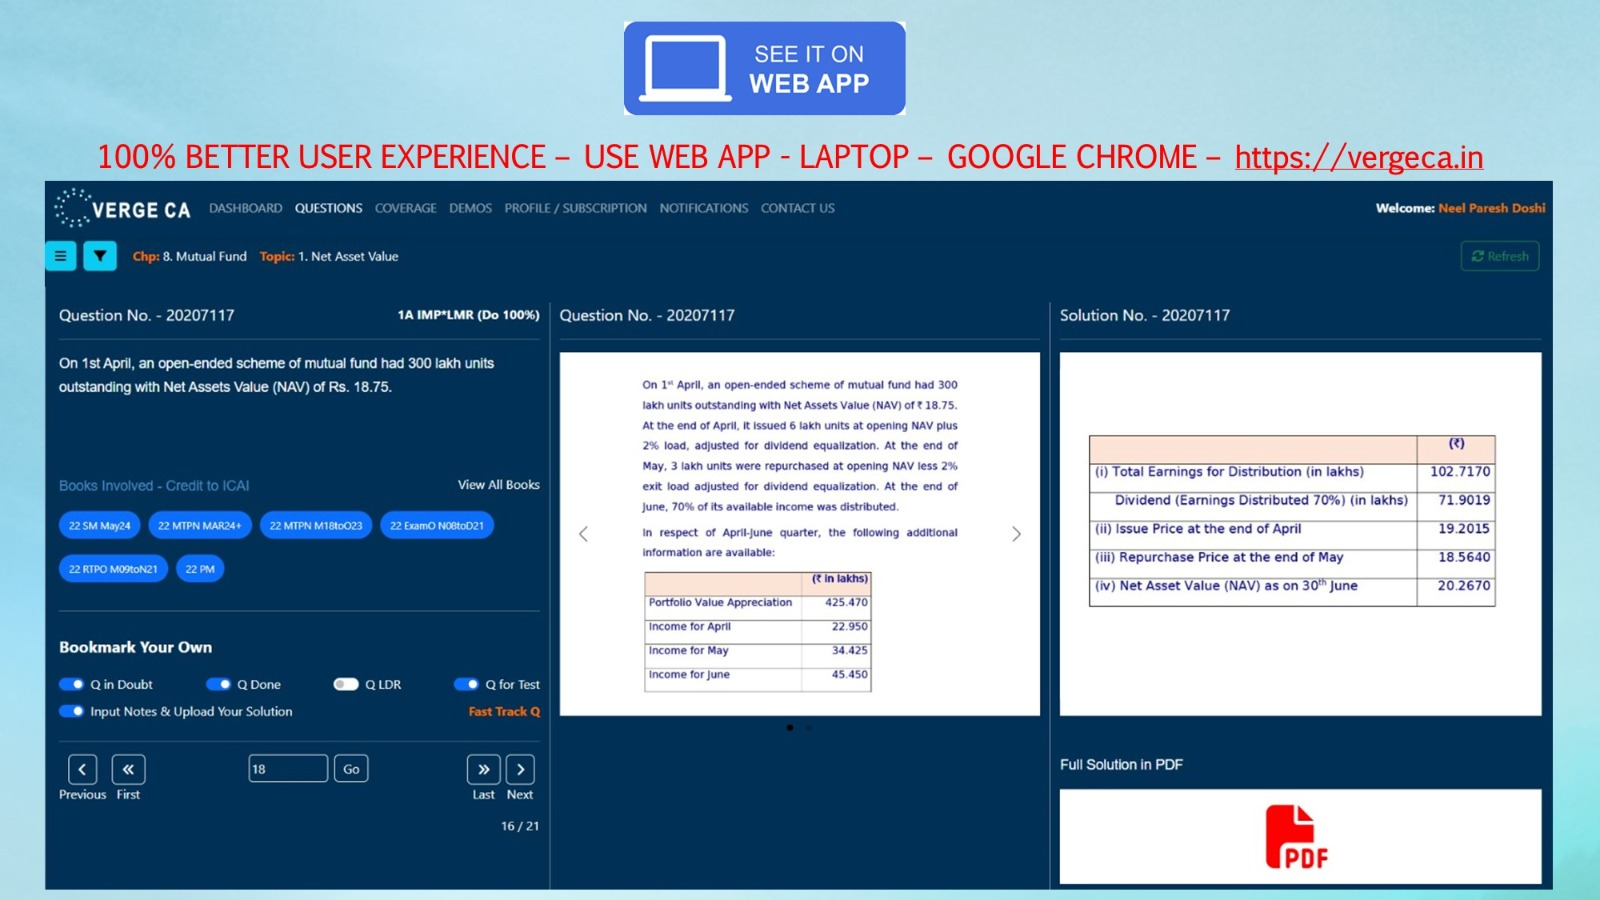
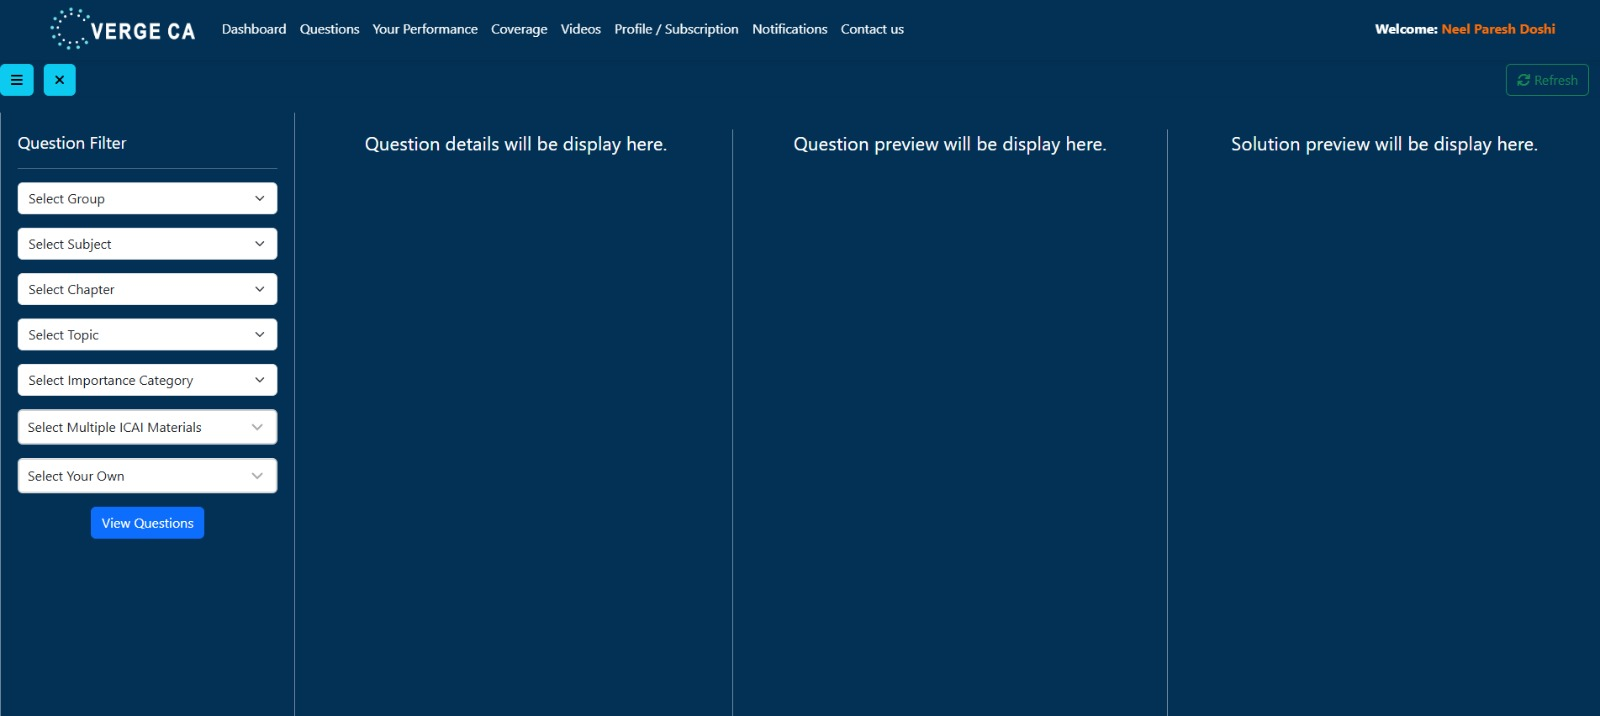
updating pricing

diff --git a/components/sections/pricing.tsx b/components/sections/pricing.tsx
@@ -5,7 +5,7 @@ import Link from "next/link";
 // importing shadcn components
 import { Button } from "@/components/ui/button";
 import { Card } from "@/components/ui/card";
-import { pricing } from "@/lib/data";
+import { pricingCAFinal, pricingCAInter } from "@/lib/data";
 
 // importing images
 import pricingImg from "@/public/images/pricing.png";
@@ -75,40 +75,67 @@ export function Pricing() {
         <>
             <section id={"pricing"} className={"px-[5vw] md:px-[10vw] py-20 md:py-28 lg:py-32"}>
                 <div className="container px-4 md:px-6">
-                    <div className="flex flex-col items-center justify-center space-y-4 text-center">
-                        <div className="space-y-2">
+                    <div className="flex flex-col items-center justify-center space-y-6 text-center">
+                        <div className="space-y-3">
                             <h1 className="heading">
                                 Subscription Plans
                             </h1>
-                            {/* <p className="max-w-[900px] text-muted-foreground md:text-xl/relaxed lg:text-base/relaxed xl:text-xl/relaxed">
-                                Choose the plan that fits your needs.
-                            </p> */}
-                            <p className="max-w-[900px] text-muted-foreground md:text-xl/relaxed lg:text-base/relaxed xl:text-xl/relaxed">
-                                Download the App and Register for free.
-                                <br />
-                                Get 2 days of free access to any 1 subject.
-                                <br />
-                                Extend further for 7 days by providing Institute Registration Image on Whatsapp.
-                                <br />
-                                <br />
-                                <h1 className="text-2xl font-bold mb-5 text-foreground">
-                                    Further choose the plan that fits your needs
-                                </h1>
-                            </p>
+                            <div className="max-w-[900px] text-muted-foreground md:text-xl/relaxed lg:text-base/relaxed xl:text-xl/relaxed">
+                                <p>
+                                    Download the App and Register for free.
+                                    <br />
+                                    Get 2 days of free access to any 1 subject.
+                                    <br />
+                                    Extend further for 7 days by providing Institute Registration Image on Whatsapp.
+                                </p>
+                            </div>
+                            <h2 className="text-2xl font-bold pt-3 text-foreground">
+                                Further choose the plan that fits your needs
+                            </h2>
                         </div>
 
-                        <div className="w-full md:w-[90vw] lg:w-[70vw] grid grid-cols-1 sm:grid-cols-2 lg:grid-cols-4 gap-5">
-                            {pricing.map((pricingCard) => (
-                                <PricingCard
-                                    key={pricingCard.name}
-                                    name={pricingCard.name}
-                                    cost={pricingCard.cost}
-                                    costDivision={pricingCard.costDivision}
-                                    duration={pricingCard.duration}
-                                    userCount={pricingCard.userCount}
-                                    features={pricingCard.features}
-                                />
-                            ))}
+                        {/* CA Final Section */}
+                        <div className="w-full flex flex-col items-center space-y-4 pt-4">
+                            <div className="bg-muted border border-border px-6 py-3 rounded-xl shadow-sm">
+                                <h3 className="text-xl md:text-2xl font-bold text-foreground text-center">
+                                    CA Final - FR, AFM &amp; Audit &amp; CA Inter - Costing &amp; Audit
+                                </h3>
+                            </div>
+                            <div className="w-full md:w-[90vw] lg:w-[70vw] grid grid-cols-1 sm:grid-cols-2 lg:grid-cols-4 gap-5">
+                                {pricingCAFinal.map((pricingCard) => (
+                                    <PricingCard
+                                        key={`final-${pricingCard.name}`}
+                                        name={pricingCard.name}
+                                        cost={pricingCard.cost}
+                                        costDivision={pricingCard.costDivision}
+                                        duration={pricingCard.duration}
+                                        userCount={pricingCard.userCount}
+                                        features={pricingCard.features}
+                                    />
+                                ))}
+                            </div>
+                        </div>
+
+                        {/* CA Inter Section */}
+                        <div className="w-full flex flex-col items-center space-y-4 pt-8">
+                            <div className="bg-muted border border-border px-6 py-3 rounded-xl shadow-sm">
+                                <h3 className="text-xl md:text-2xl font-bold text-foreground text-center">
+                                    CA Inter - Advanced Accounting, AS Advanced Accounting, FM &amp; SM
+                                </h3>
+                            </div>
+                            <div className="w-full md:w-[90vw] lg:w-[70vw] grid grid-cols-1 sm:grid-cols-2 lg:grid-cols-4 gap-5">
+                                {pricingCAInter.map((pricingCard) => (
+                                    <PricingCard
+                                        key={`inter-${pricingCard.name}`}
+                                        name={pricingCard.name}
+                                        cost={pricingCard.cost}
+                                        costDivision={pricingCard.costDivision}
+                                        duration={pricingCard.duration}
+                                        userCount={pricingCard.userCount}
+                                        features={pricingCard.features}
+                                    />
+                                ))}
+                            </div>
                         </div>
 
                         <div className="space-y-5">

diff --git a/lib/data.tsx b/lib/data.tsx
@@ -289,7 +289,42 @@ export const testimonials = [
     },
 ];
 
-export const pricing = [
+export const pricingCAFinal = [
+    {
+        "name": "Monthly Plan",
+        "cost": 149,
+        "costDivision": "per subject",
+        "duration": 30,
+        "userCount": 1,
+        "features": ["30 Days", "All Features"],
+    },
+    {
+        "name": "Quaterly Plan",
+        "cost": 299,
+        "costDivision": "per subject",
+        "duration": 90,
+        "userCount": 1,
+        "features": ["90 Days", "All Features"],
+    },
+    {
+        "name": "Bi-annual Plan",
+        "cost": 399,
+        "costDivision": "per subject",
+        "duration": 180,
+        "userCount": 1,
+        "features": ["180 Days", "All Features"],
+    },
+    {
+        "name": "Annual Plan",
+        "cost": 499,
+        "costDivision": "per subject",
+        "duration": 360,
+        "userCount": 1,
+        "features": ["360 Days", "All Features"],
+    },
+];
+
+export const pricingCAInter = [
     {
         "name": "Monthly Plan",
         "cost": 99,
@@ -323,6 +358,8 @@ export const pricing = [
         "features": ["360 Days", "All Features"],
     },
 ];
+
+export const pricing = pricingCAInter;
 
 export const faq = [
     {

diff --git a/components/sections/demo.tsx b/components/sections/demo.tsx
@@ -44,7 +44,7 @@ export function Demo() {
 
                     <p className="paragraph">
                         The app is available in the form of Web App. <br />
-                        View App Introduction and Screenshots of the Application.
+                        View Web App Introduction and Screenshots of the Web App.
                     </p>
 
                     <ArrowButton
